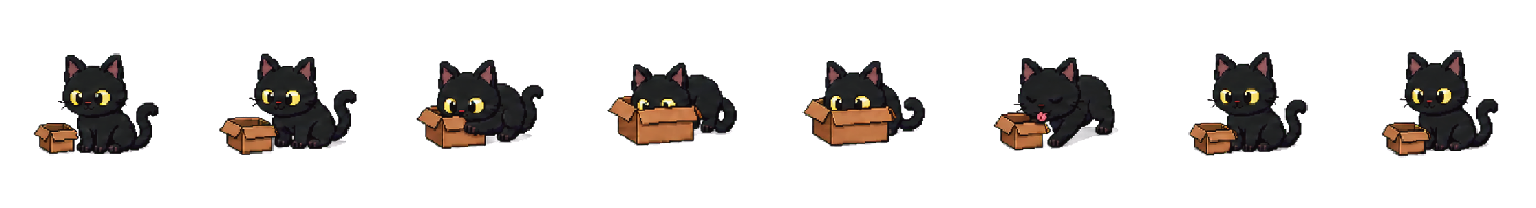
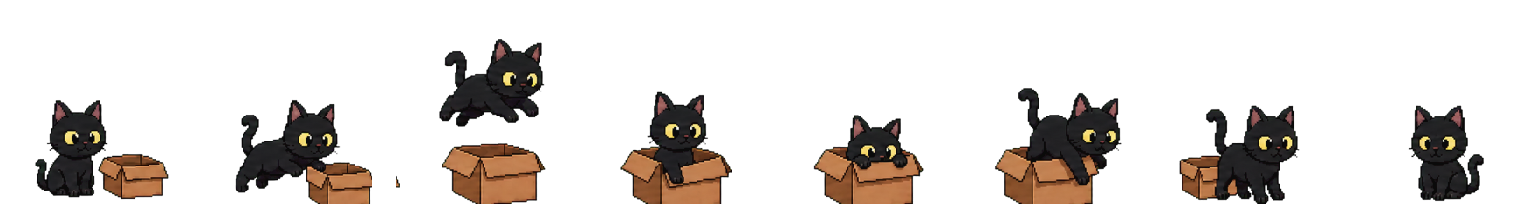
feat: working

Changed region(s): [[0.0, 0.2019, 1.0, 0.9808]]

diff --git a/Tests/AppShellTests/PetAssetRuntimeTests.swift b/Tests/AppShellTests/PetAssetRuntimeTests.swift
@@ -396,6 +396,81 @@ final class PetAssetRuntimeTests: XCTestCase {
         }.count, 2, "stretching needs visibly extended body frames and no seated yawn substitution")
     }
 
+    func test_waitingThinksBeforeYawning_withoutRestoringTheHourglass() throws {
+        // WHY: waiting can persist behind the unread badge, so its loop must communicate patience
+        // without freezing on the rejected hourglass or opening the yawn immediately.
+        let atlas = try PetAtlas.bundled()
+        let frames = try (0..<8).map { try atlas.frame(state: .waiting, index: $0).image }
+        let mouthPixels = try frames.map {
+            pinkPixelCount(in: $0, rect: try XCTUnwrap(mouthRegion(in: $0)))
+        }
+        let peak = try XCTUnwrap(mouthPixels.enumerated().max(by: { $0.element < $1.element }))
+
+        XCTAssertTrue((5...6).contains(peak.offset),
+            "waiting must think first and yawn only after the pause")
+        XCTAssertGreaterThanOrEqual(peak.element, 40, "waiting needs one readable seated yawn")
+        XCTAssertLessThanOrEqual(mouthPixels[7], max(20, peak.element / 2),
+            "the waiting loop must settle neutral after the yawn")
+
+        for (index, frame) in frames.enumerated() {
+            let cat = try XCTUnwrap(darkFurComponent(in: frame))
+            let protectedCatBounds = cat.bounds.insetBy(dx: -8, dy: -8)
+            let pixels = rgbaBytes(of: frame)
+            let detachedHourglassPixels = (0..<(frame.width * frame.height)).filter { pixel in
+                let x = pixel % frame.width
+                let y = pixel / frame.width
+                guard !protectedCatBounds.contains(CGPoint(x: x, y: y)) else { return false }
+                let offset = pixel * 4
+                let red = Int(pixels[offset])
+                let green = Int(pixels[offset + 1])
+                let blue = Int(pixels[offset + 2])
+                return pixels[offset + 3] >= 64
+                    && red > 140
+                    && green > 80
+                    && blue < 120
+                    && red - blue > 50
+            }.count
+            XCTAssertEqual(detachedHourglassPixels, 0,
+                "waiting[\(index)] must not restore the detached gold hourglass")
+        }
+    }
+
+    func test_butterflyFramesContainExactlyOneCatSizedFurComponent() throws {
+        // WHY: a neighboring source cell once leaked into this row and rendered a second cat.
+        let atlas = try PetAtlas.bundled()
+        for index in 0..<8 {
+            let frame = try atlas.frame(state: .idleButterfly, index: index).image
+            let pixels = rgbaBytes(of: frame)
+            let cats = matchingComponents(width: frame.width, height: frame.height) { pixel in
+                let offset = pixel * 4
+                let channels = [Int(pixels[offset]), Int(pixels[offset + 1]), Int(pixels[offset + 2])]
+                return pixels[offset + 3] >= 16
+                    && (channels.max() ?? 255) < 80
+                    && (channels.max() ?? 0) - (channels.min() ?? 0) < 28
+            }.filter { $0.pixelCount >= 500 }
+
+            XCTAssertEqual(cats.count, 1,
+                "idleButterfly[\(index)] must contain exactly one cat, never a duplicate or ghost")
+        }
+    }
+
+    func test_boxReactionShowsAirborneEntryOcclusionAndReturn() throws {
+        // WHY: replacing the original jump with a crawl made the box interaction read incorrectly.
+        let atlas = try PetAtlas.bundled()
+        let cats = try (0..<8).map {
+            try XCTUnwrap(darkFurComponent(in: atlas.frame(state: .idleBox, index: $0).image))
+        }
+
+        XCTAssertLessThan(cats[2].bounds.minY, cats[0].bounds.minY - 20,
+            "idleBox must include a clearly airborne jump frame")
+        XCTAssertGreaterThan(cats[3].bounds.midY, cats[2].bounds.midY + 10,
+            "the airborne cat must descend into the box instead of teleporting")
+        XCTAssertLessThan(cats[4].bounds.height, cats[0].bounds.height * 0.95,
+            "the box must occlude the cat while it peeks from inside")
+        XCTAssertGreaterThanOrEqual(boundingBoxOverlapRatio(cats[7], cats[0]), 0.5,
+            "idleBox must return to the original seated pose after hopping out")
+    }
+
     func test_pickedUpHangsFromAStableInvisibleScruffWithoutAPropLine() throws {
         let atlas = try PetAtlas.bundled()
         let frames = try (0..<8).map { try atlas.frame(state: .pickedUp, index: $0).image }
